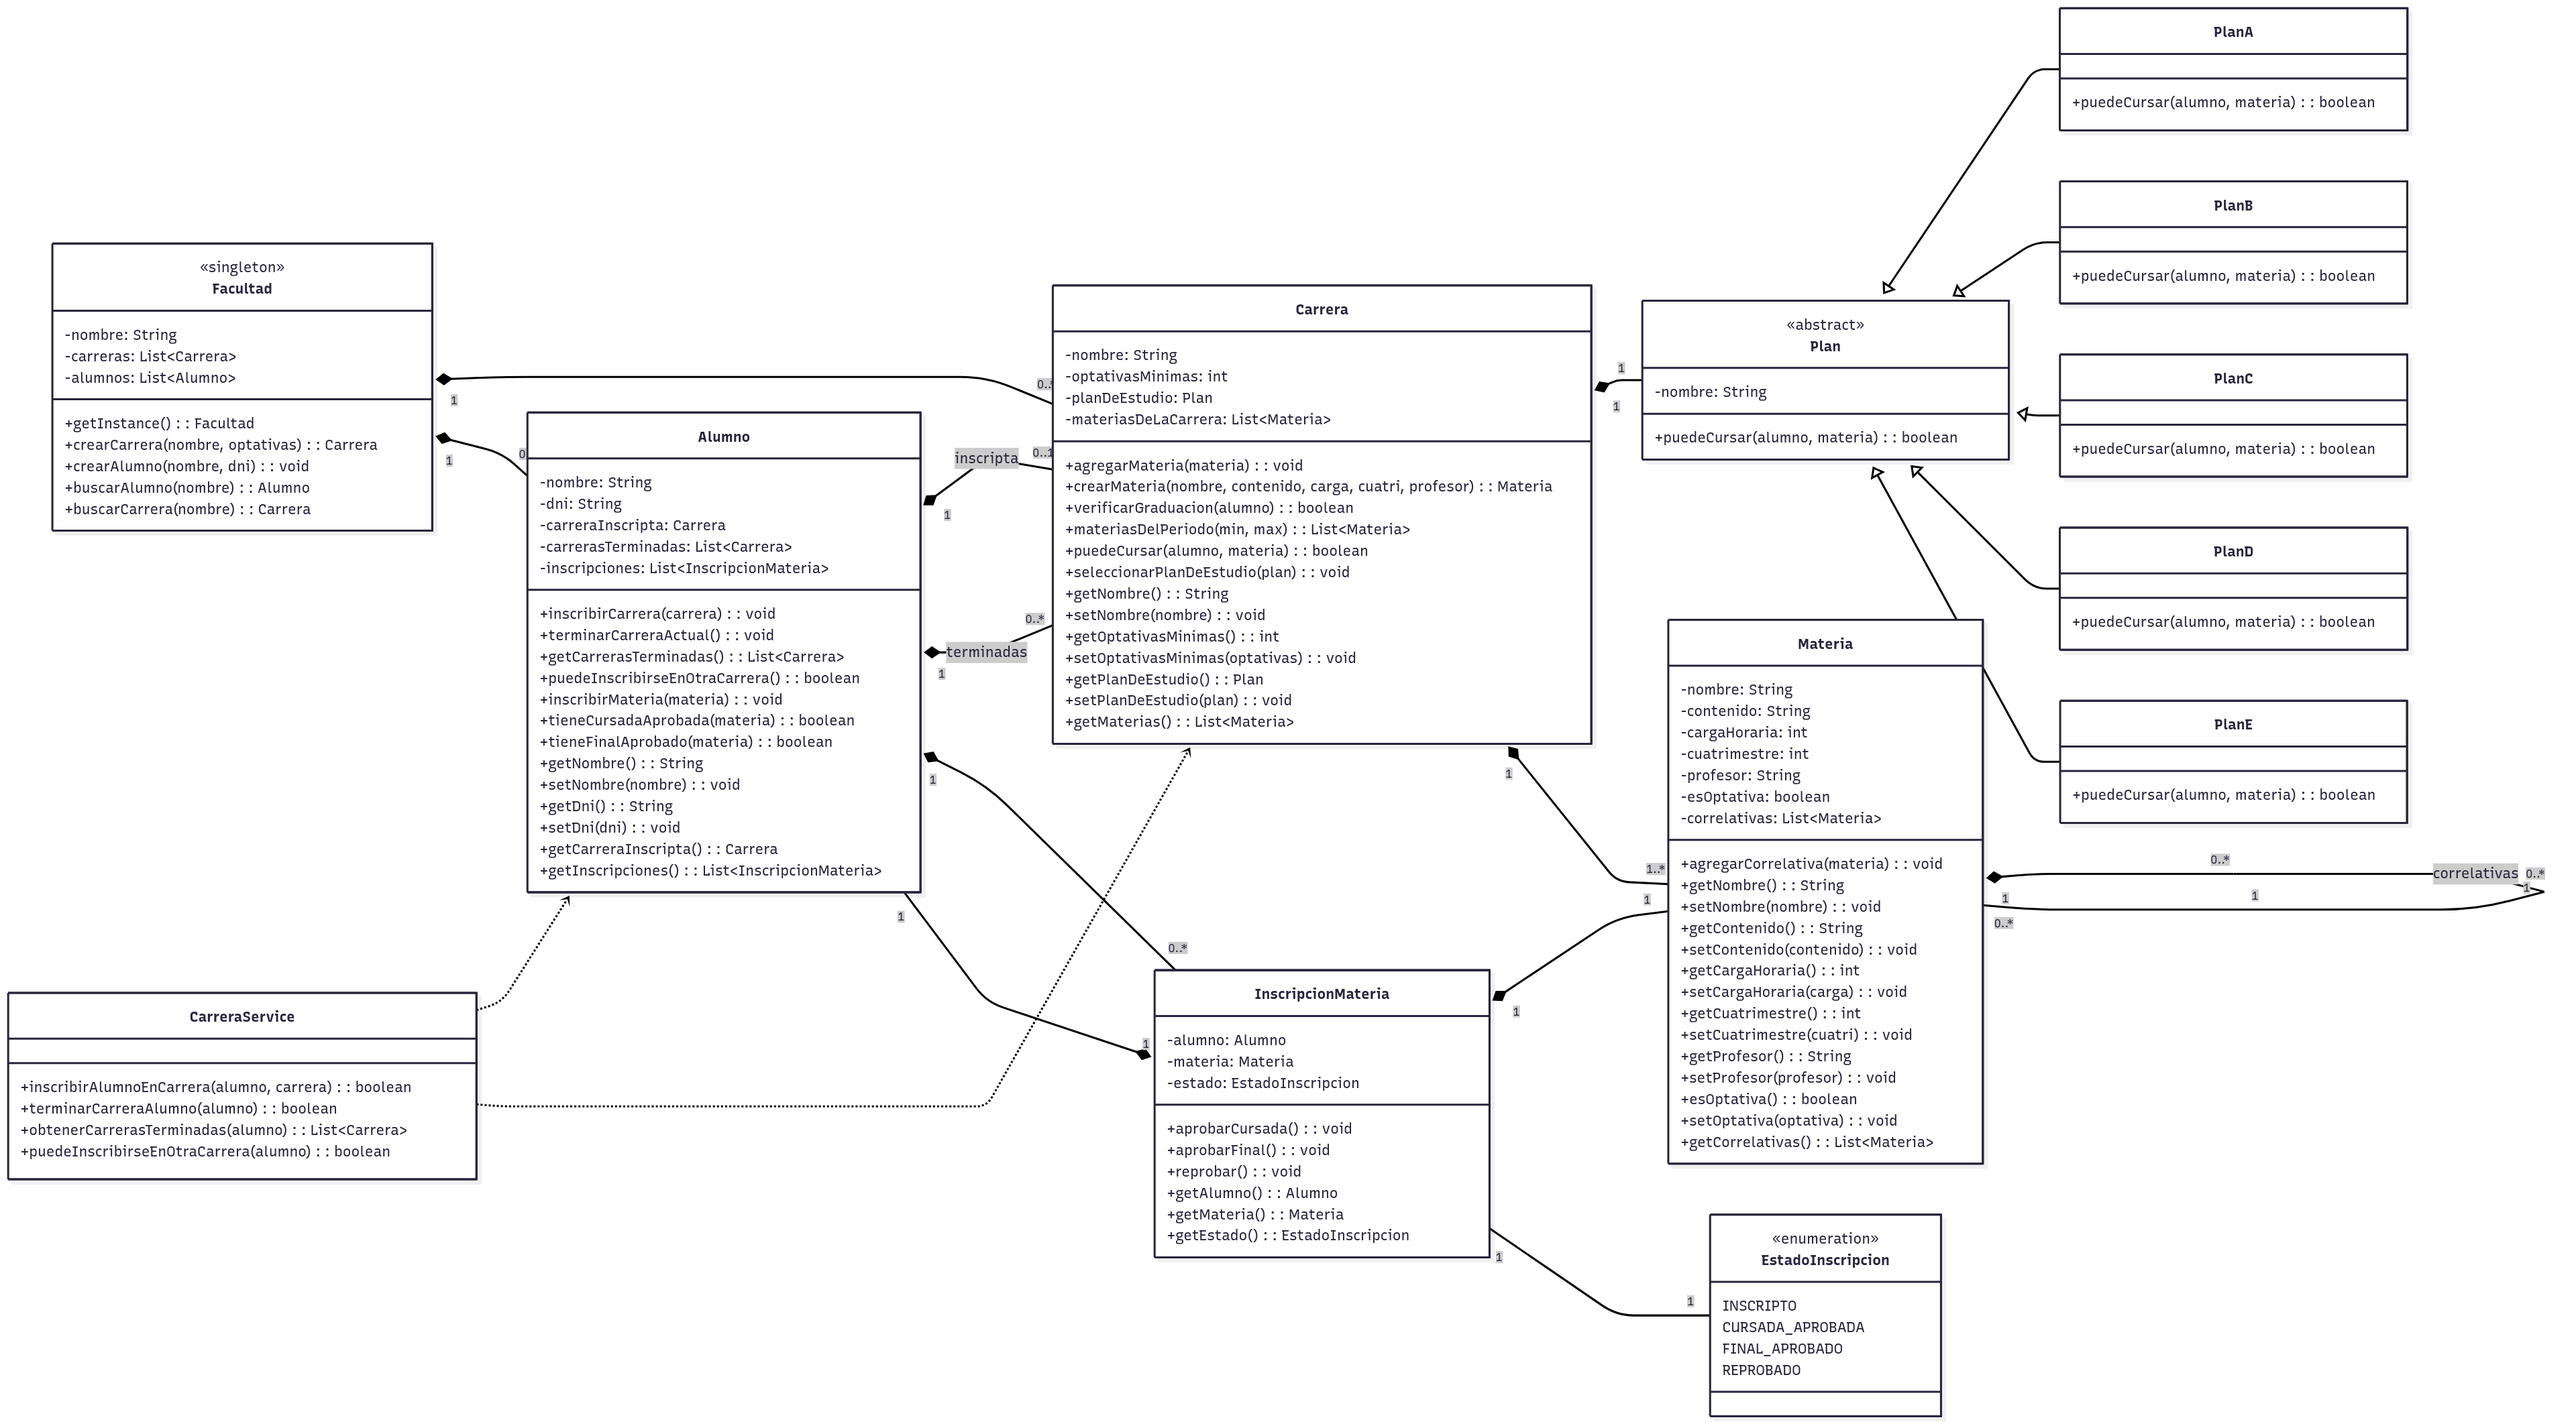
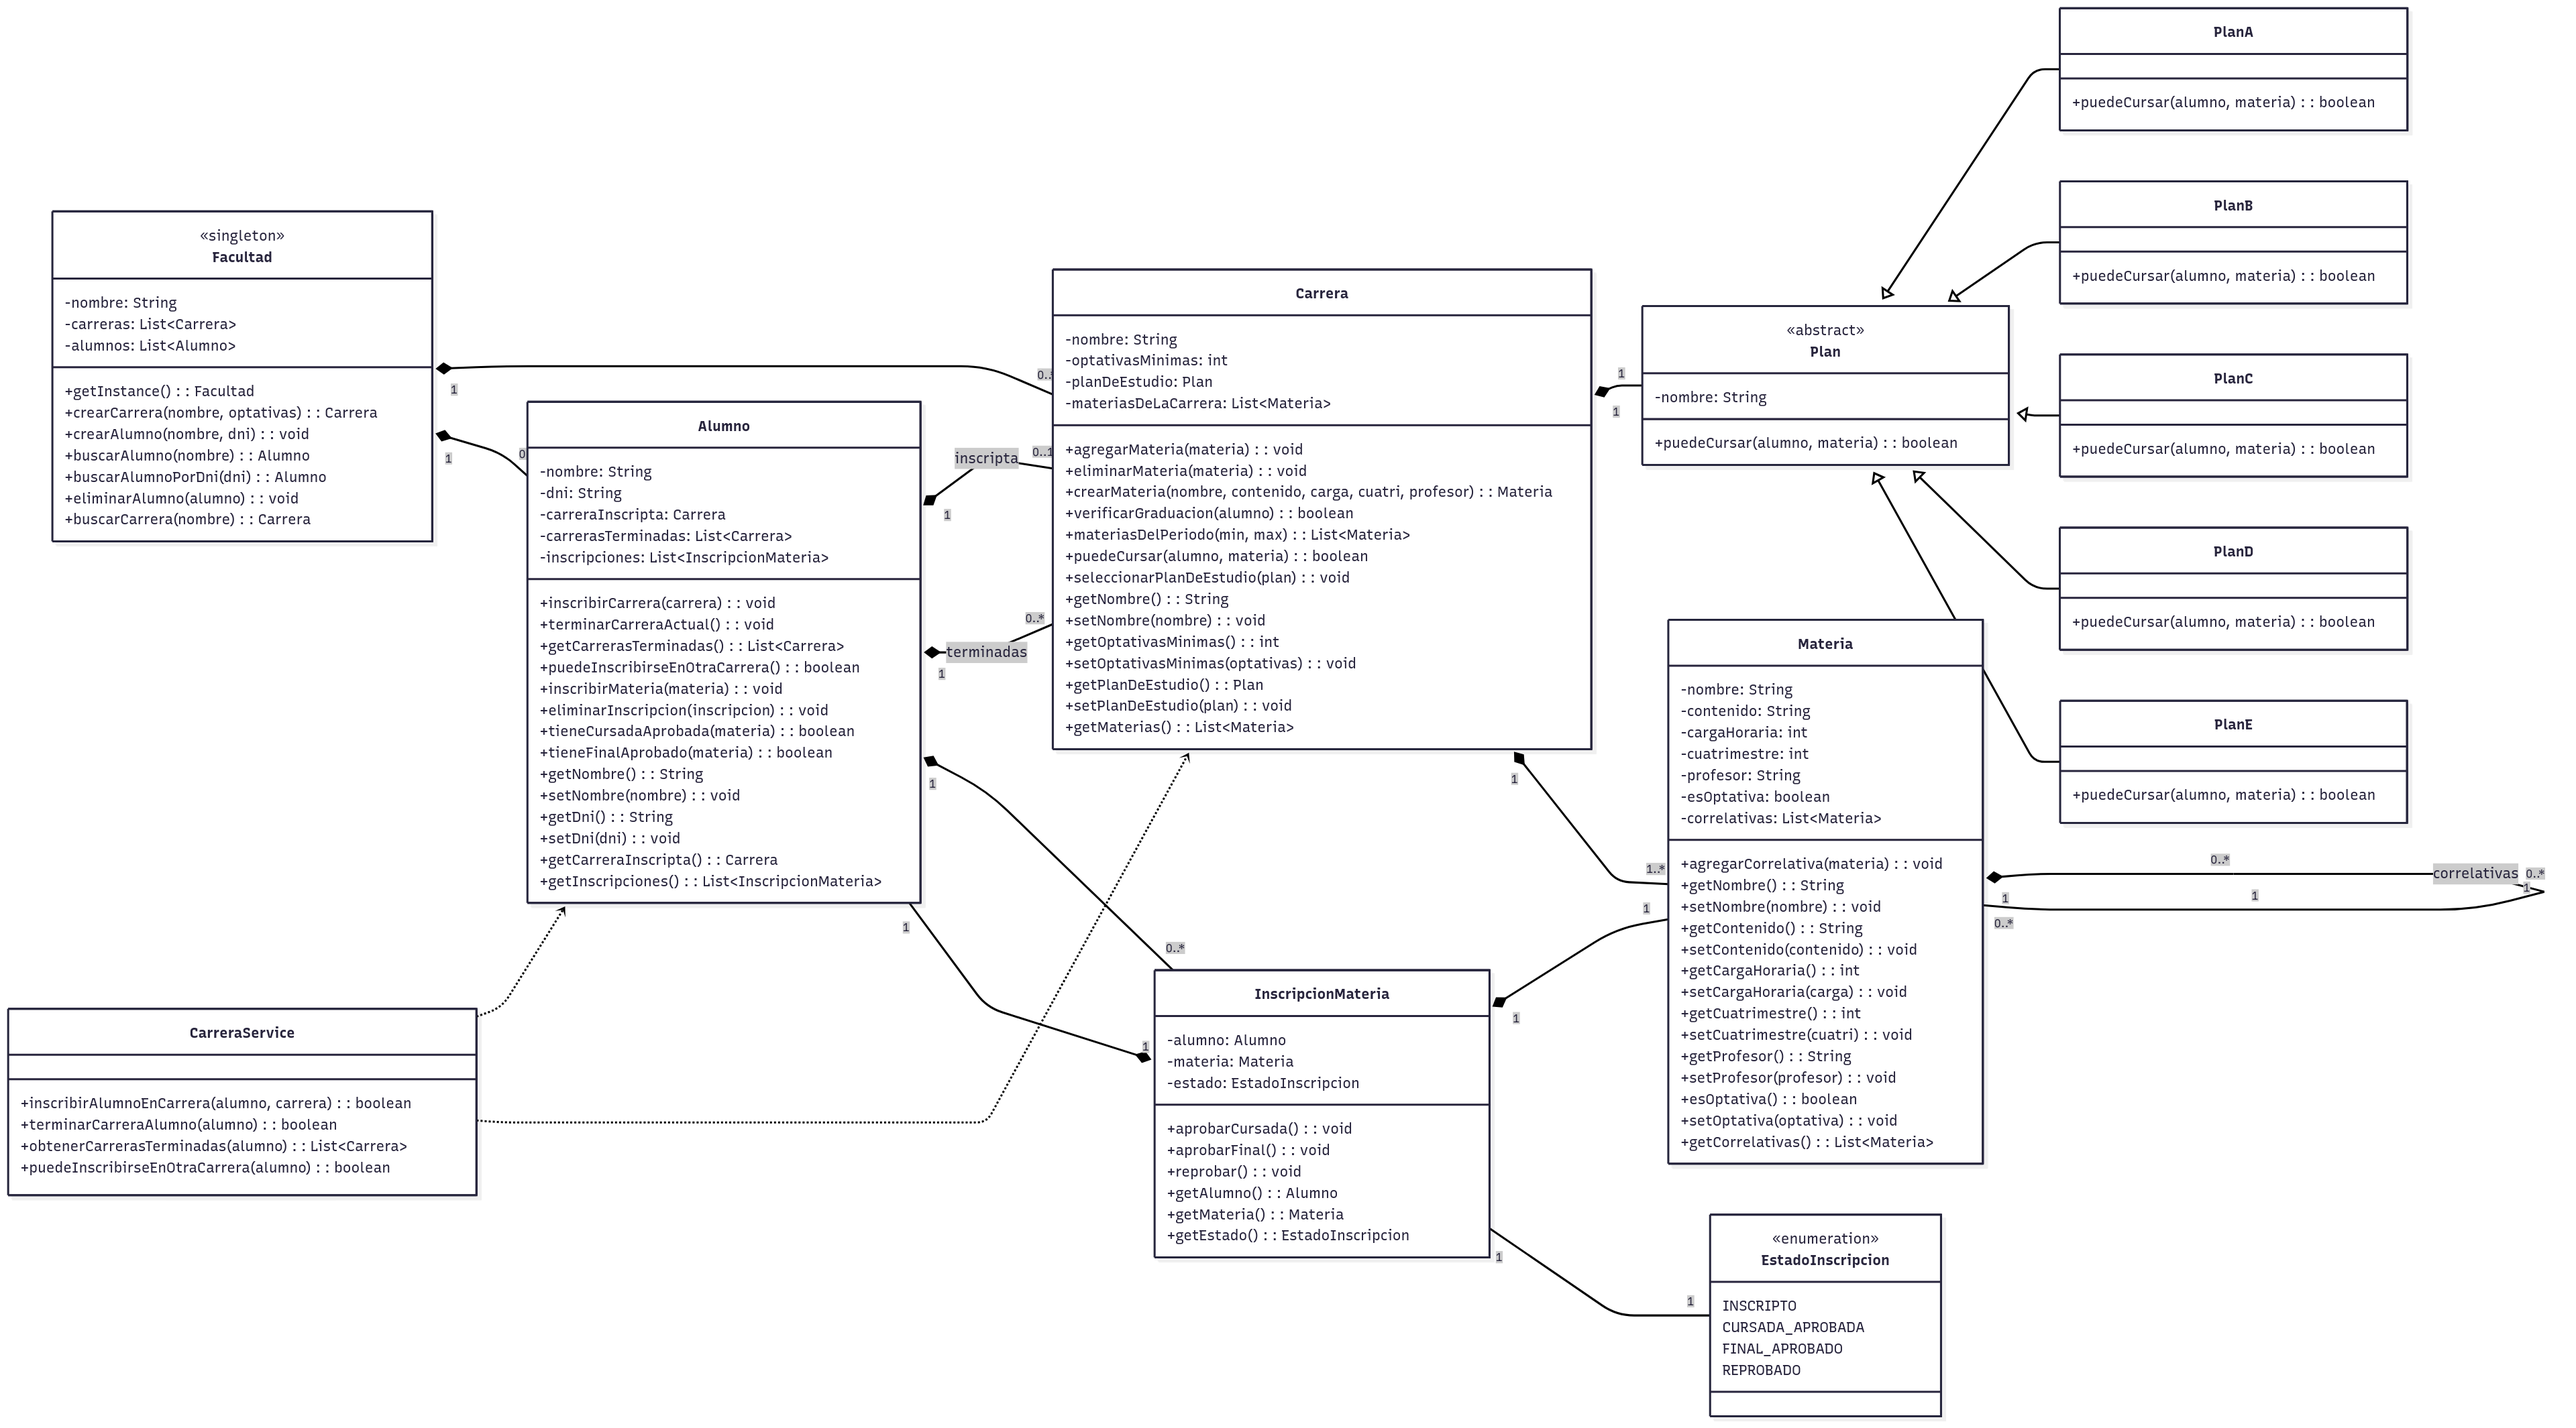
Diagrama de Clases actualizado, borrar materias listo. Falta editar cargar materia.

diff --git a/src/integradorobjetos/vista/VistaCarrera3.java b/src/integradorobjetos/vista/VistaCarrera3.java
@@ -4,7 +4,10 @@
  */
 package integradorobjetos.vista;
 
+import integradorobjetos.modelo.Alumno;
 import integradorobjetos.modelo.Carrera;
+import integradorobjetos.modelo.Facultad;
+import integradorobjetos.modelo.InscripcionMateria;
 import integradorobjetos.modelo.Materia;
 import integradorobjetos.modelo.Plan;
 import java.awt.BorderLayout;
@@ -437,8 +440,20 @@ public class VistaCarrera3 extends javax.swing.JPanel {
         jScrollPane1.setViewportView(jTable1);
 
         CrearMateriaBoton.setText("Crear Materia");
+        CrearMateriaBoton.setFocusable(false);
+        CrearMateriaBoton.addActionListener(new java.awt.event.ActionListener() {
+            public void actionPerformed(java.awt.event.ActionEvent evt) {
+                CrearMateriaBotonActionPerformed(evt);
+            }
+        });
 
         EliminarMateriaBoton.setText("Eliminar Materia");
+        EliminarMateriaBoton.setFocusable(false);
+        EliminarMateriaBoton.addActionListener(new java.awt.event.ActionListener() {
+            public void actionPerformed(java.awt.event.ActionEvent evt) {
+                EliminarMateriaBotonActionPerformed(evt);
+            }
+        });
 
         Ojo.setBackground(new java.awt.Color(0, 0, 0));
         Ojo.setMaximumSize(new java.awt.Dimension(597, 38));
@@ -514,6 +529,94 @@ public class VistaCarrera3 extends javax.swing.JPanel {
         // TODO add your handling code here:
     }//GEN-LAST:event_OptativasActionPerformed
 
+    private void CrearMateriaBotonActionPerformed(java.awt.event.ActionEvent evt) {//GEN-FIRST:event_CrearMateriaBotonActionPerformed
+        VistaMateria1 panel = new VistaMateria1();
+        Fondo.removeAll();
+        Fondo.setLayout(new BorderLayout());
+        Fondo.add(panel, BorderLayout.CENTER);
+        Fondo.revalidate();
+        Fondo.repaint();
+    }//GEN-LAST:event_CrearMateriaBotonActionPerformed
+
+    private void EliminarMateriaBotonActionPerformed(java.awt.event.ActionEvent evt) {//GEN-FIRST:event_EliminarMateriaBotonActionPerformed
+        // Verificar si hay una fila seleccionada
+        int filaSeleccionada = jTable1.getSelectedRow();
+        if (filaSeleccionada == -1) {
+            JOptionPane.showMessageDialog(this, 
+                "Debe seleccionar una materia para eliminar", 
+                "Error de Selección", JOptionPane.ERROR_MESSAGE);
+            return;
+        }
+
+        // Obtener la materia seleccionada del modelo de tabla
+        MateriasCarreraTableModel modelo = (MateriasCarreraTableModel) jTable1.getModel();
+        Materia materiaAEliminar = modelo.getMateriaAt(filaSeleccionada);
+
+        if (materiaAEliminar == null) {
+            JOptionPane.showMessageDialog(this, 
+                "No se pudo obtener la materia seleccionada", 
+                "Error", JOptionPane.ERROR_MESSAGE);
+            return;
+        }
+
+        // Confirmar la eliminación
+        int confirmacion = JOptionPane.showConfirmDialog(this, 
+            "¿Está seguro que desea eliminar la materia " + materiaAEliminar.getNombre() + "?\n" +
+            "Todos los alumnos inscriptos en esta materia perderán la inscripción.", 
+            "Confirmar Eliminación", JOptionPane.YES_NO_OPTION, JOptionPane.WARNING_MESSAGE);
+
+        if (confirmacion != JOptionPane.YES_OPTION) {
+            return;
+        }
+
+        try {
+            // Eliminar las inscripciones de los alumnos en esta materia
+            eliminarInscripcionesDeMateria(materiaAEliminar);
+
+            // Eliminar la materia de la carrera
+            carrera.eliminarMateria(materiaAEliminar);
+
+            // Mostrar mensaje de éxito
+            JOptionPane.showMessageDialog(this, 
+                "Materia eliminada con éxito\n" +
+                "Las inscripciones de los alumnos han sido eliminadas", 
+                "Eliminación Exitosa", JOptionPane.INFORMATION_MESSAGE);
+
+            // Actualizar la tabla
+            cargarTablaMaterias();
+        } catch (Exception ex) {
+            JOptionPane.showMessageDialog(this, 
+                "Error al eliminar materia: " + ex.getMessage(), 
+                "Error", JOptionPane.ERROR_MESSAGE);
+        }
+    }//GEN-LAST:event_EliminarMateriaBotonActionPerformed
+
+    // Método para eliminar las inscripciones de los alumnos en una materia
+    private void eliminarInscripcionesDeMateria(Materia materia) {
+        // Obtener todos los alumnos de la facultad
+        List<Alumno> alumnos = Facultad.getInstance().getAlumnos();
+
+        // Recorrer todos los alumnos
+        for (Alumno alumno : alumnos) {
+            // Obtener las inscripciones del alumno
+            List<InscripcionMateria> inscripciones = alumno.getInscripciones();
+
+            // Crear una lista de inscripciones a eliminar (para evitar ConcurrentModificationException)
+            List<InscripcionMateria> inscripcionesAEliminar = new ArrayList<>();
+
+            // Buscar inscripciones a esta materia
+            for (InscripcionMateria inscripcion : inscripciones) {
+                if (inscripcion.getMateria().equals(materia)) {
+                    inscripcionesAEliminar.add(inscripcion);
+                }
+            }
+
+            // Eliminar las inscripciones encontradas
+            for (InscripcionMateria inscripcion : inscripcionesAEliminar) {
+                alumno.eliminarInscripcion(inscripcion);
+            }
+        }
+    }
 
     // Variables declaration - do not modify//GEN-BEGIN:variables
     private javax.swing.JTextField CargaHoraria;

diff --git a/src/integradorobjetos/modelo/Carrera.java b/src/integradorobjetos/modelo/Carrera.java
@@ -78,6 +78,21 @@ public class Carrera {
         return resultado;
     }
     
+    public void eliminarMateria(Materia materia) {
+        if (materiasDeLaCarrera.contains(materia)) {
+            // Eliminar la materia de la lista
+            materiasDeLaCarrera.remove(materia);
+            
+            // Eliminar esta materia como correlativa de otras materias
+            for (Materia m : materiasDeLaCarrera) {
+                List<Materia> correlativas = m.getCorrelativas();
+                if (correlativas.contains(materia)) {
+                    correlativas.remove(materia);
+                }
+            }
+        }
+    }
+    
     // Patrón Strategy
     public boolean puedeCursar(Alumno alumno, Materia materia) {
         return planDeEstudio.puedeCursar(alumno, materia);

diff --git a/src/integradorobjetos/modelo/Alumno.java b/src/integradorobjetos/modelo/Alumno.java
@@ -50,6 +50,12 @@ public class Alumno {
         }
     }
     
+    public void eliminarInscripcion(InscripcionMateria inscripcion) {
+        if (inscripciones.contains(inscripcion)) {
+            inscripciones.remove(inscripcion);
+        }
+    }
+    
     // Método para obtener todas las carreras terminadas
     public List<Carrera> getCarrerasTerminadas() {
         return new ArrayList<>(carrerasTerminadas);
